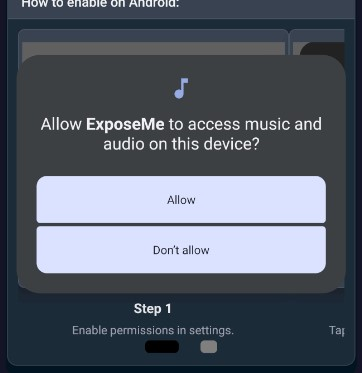
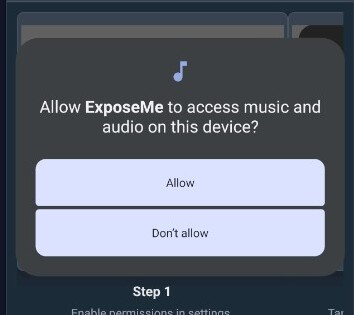
[FIX] Initial screen carrousel fix

diff --git a/Client/app/screens/InitialScreen.tsx b/Client/app/screens/InitialScreen.tsx
@@ -27,8 +27,8 @@ const InitialScreen: React.FC = () => {
   };
 
   const androidImages = [
-    { id: 1, source: AudioPermissionIMG, title: "Step 1", description: "Enable permissions in settings." },
-    { id: 2, source: GalleryPermissionIMG, title: "Step 2", description: "Tap on access to Photos and videos." },
+    { id: 1, source: AudioPermissionIMG, title: "Step 1", description: "Tap on Allow." },
+    { id: 2, source: GalleryPermissionIMG, title: "Step 2", description: "Tap on Allow all." },
   ];
 
   // Calculate responsive dimensions for images
@@ -69,7 +69,9 @@ const InitialScreen: React.FC = () => {
                 <CustomCarousel
                   data={androidImages}
                   renderItem={({ item }) => (
-                    <View style={tw`items-center`}>
+                    <View
+                      style={[{ width: screenWidth * 0.8, alignItems: "center", justifyContent: "center", paddingVertical: 10 }]}
+                    >
                       <View style={tw`bg-gray-700 rounded-lg overflow-hidden shadow-lg mb-3 p-1 border border-gray-600`}>
                         <Image source={item.source} style={{ width: imageWidth, height: imageHeight }} resizeMode="contain" />
                       </View>
@@ -78,6 +80,11 @@ const InitialScreen: React.FC = () => {
                     </View>
                   )}
                   disablePagination={false}
+                  widthBoundaryForPagination={screenWidth * 0.8}
+                  decelerationRate="fast"
+                  snapToInterval={screenWidth * 0.8}
+                  indicatorColor={["gray", "white", "gray"]}
+                  paginationContainerStyle={tw`mt-3`}
                 />
               </View>
             ) : (
@@ -85,7 +92,10 @@ const InitialScreen: React.FC = () => {
                 <View style={tw`bg-gray-700 rounded-lg overflow-hidden shadow-lg mb-3 p-1 border border-gray-600`}>
                   <Image source={PermissionRequestIOS} style={{ width: imageWidth, height: imageHeight }} resizeMode="contain" />
                 </View>
-                <Text style={tw`text-sm text-gray-300 text-center`}>Tap "Allow" when prompted to give access to your photos</Text>
+                <Text style={tw`text-sm text-gray-300 text-center`}>
+                  Tap <Text style={tw`text-red-600`}>"Allow all" </Text>
+                  to give access to your photos
+                </Text>
               </View>
             )}
           </View>
